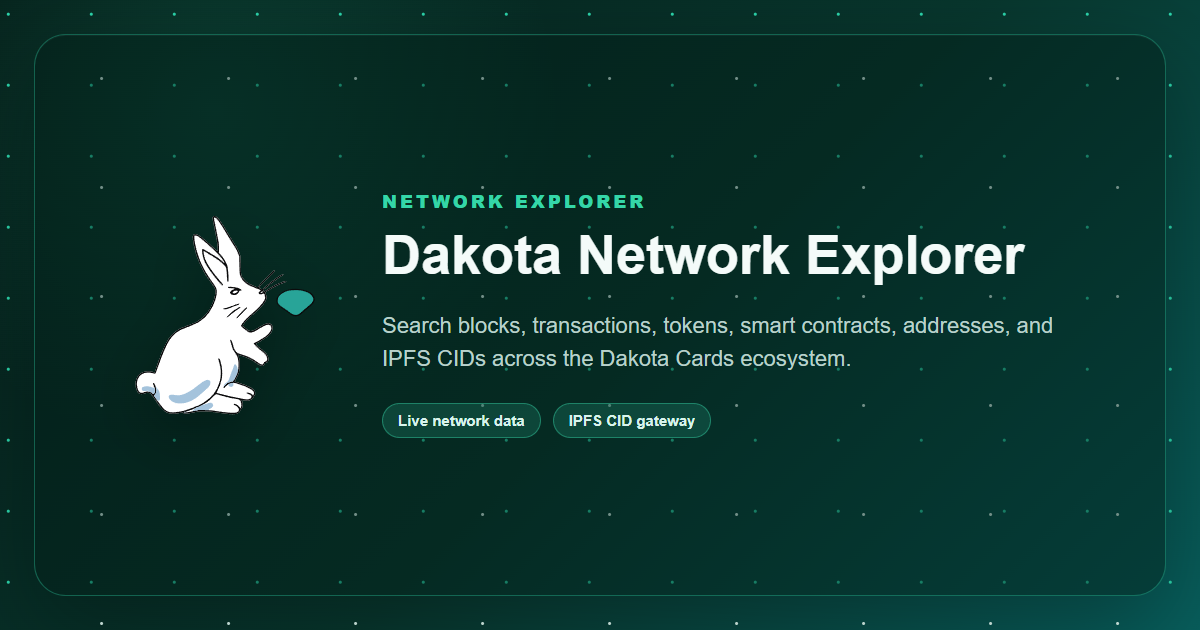
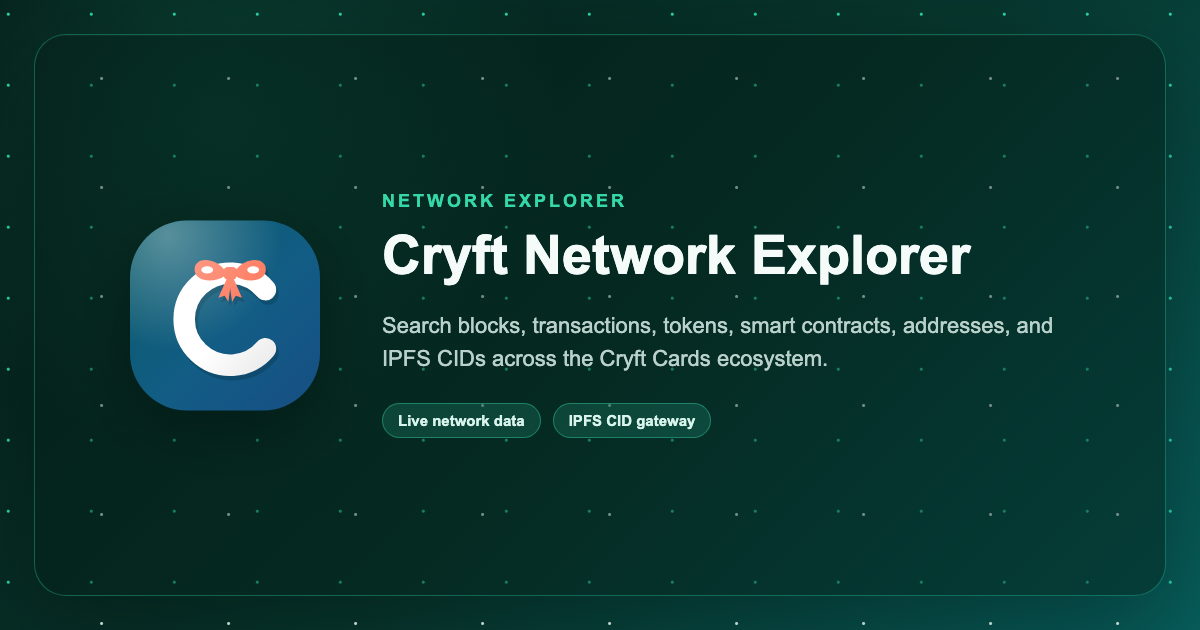
Cryft branding: Cryft Cards explorer, Cryft Network, Cryft Coin (CRYFT)
Chad 2026-11-22: Dakota Cards becomes Cryft Cards; the network is Cryft Network and its coin Cryft Coin, CRYFT
(the app has said so since 10-26). Every visible name, title, meta and structured-data string; the Cryft Cards
mark (cryft-cards-web icon.svg) as logo and favicon; footer ticker from the configured symbol; the dead
dakota.cards dashboard/docs links replaced by cryft.app and cryft.app/how; a new OG image; shared theme cookie
on .cryft.cards as well as .dakota.cards. Internal identifiers and cookie keys keep their names. Network names
themselves come from frontend.env (kit explorer-cryft-20261122).

diff --git a/deploy/scripts/og_image_generator.js b/deploy/scripts/og_image_generator.js
@@ -16,7 +16,7 @@ const appOrigin = [
   appHost,
   appPort && `:${ appPort }`,
 ].filter(Boolean).join('');
-const isDakota = appHost?.endsWith('.dakota.cards') || process.env.NEXT_PUBLIC_APP_INSTANCE?.startsWith('dakota');
+const isDakota = (appHost?.endsWith('.dakota.cards') || appHost?.endsWith('.cryft.cards')) || process.env.NEXT_PUBLIC_APP_INSTANCE?.startsWith('dakota');
 const dakotaImageFile = path.resolve(process.cwd(), 'public/static/dakota_og_image.png');
 const configuredLogo = process.env.NEXT_PUBLIC_NETWORK_LOGO_DARK ?? process.env.NEXT_PUBLIC_NETWORK_LOGO;
 const configuredBanner = process.env.NEXT_PUBLIC_HOMEPAGE_HERO_BANNER_CONFIG;
@@ -37,7 +37,7 @@ function copyPlaceholderImage() {
 if (process.env.NEXT_PUBLIC_OG_IMAGE_URL) {
   console.log('⏩ NEXT_PUBLIC_OG_IMAGE_URL is set. Skipping OG image generation...');
 } else if (isDakota && fs.existsSync(dakotaImageFile)) {
-  console.log('Copying Dakota-branded OG image...');
+  console.log('Copying Cryft-branded OG image...');
   fs.copyFileSync(dakotaImageFile, targetFile);
 } else if (!process.env.NEXT_PUBLIC_NETWORK_NAME) {
   console.log('⏩ NEXT_PUBLIC_NETWORK_NAME is not set. Copying placeholder image...');
@@ -48,10 +48,10 @@ if (process.env.NEXT_PUBLIC_OG_IMAGE_URL) {
 } else {
   try {
     const bannerConfig = JSON.parse(configuredBanner?.replaceAll('\'', '"') || '{}');
-    const dakotaLogoOrigin = appHost === 'localhost' ? 'https://explore.dakota.cards' : appOrigin;
+    const dakotaLogoOrigin = appHost === 'localhost' ? 'https://explore.cryft.cards' : appOrigin;
     const data = {
-      title: bannerConfig.text || (isDakota ? 'Dakota Network Explorer' : `${ process.env.NEXT_PUBLIC_NETWORK_NAME } explorer`),
-      logo_url: getAbsoluteAssetUrl(configuredLogo) || (isDakota ? `${ dakotaLogoOrigin }/assets/dakota/dakota-rabbit-logo.svg` : undefined),
+      title: bannerConfig.text || (isDakota ? 'Cryft Network Explorer' : `${ process.env.NEXT_PUBLIC_NETWORK_NAME } explorer`),
+      logo_url: getAbsoluteAssetUrl(configuredLogo) || (isDakota ? `${ dakotaLogoOrigin }/assets/cryft/cryft-cards-mark.svg` : undefined),
       background: bannerConfig.background?.[0] || (isDakota ? 'linear-gradient(135deg, #06231d 0%, #0a473b 56%, #0d817b 100%)' : undefined),
       title_color: bannerConfig.text_color?.[0] || (isDakota ? '#f2fbf8' : undefined),
       invert_logo: !process.env.NEXT_PUBLIC_NETWORK_LOGO_DARK && !isDakota,

diff --git a/src/features/connect-wallet/components/ThirdwebWalletModal.tsx b/src/features/connect-wallet/components/ThirdwebWalletModal.tsx
@@ -426,7 +426,7 @@ const ThirdwebWalletModal = ({ view, onClose, onConnected }: ModalProps) => {
       const provider = profile.type.charAt(0).toUpperCase() + profile.type.slice(1);
       setIdentityLabel(profile.details.email ? `${ provider } - ${ profile.details.email }` : `${ provider } account`);
     }).catch(() => {
-      isActive && setIdentityLabel('Dakota Cards wallet');
+      isActive && setIdentityLabel('Cryft Cards wallet');
     });
 
     return () => {
@@ -646,7 +646,7 @@ const ThirdwebWalletModal = ({ view, onClose, onConnected }: ModalProps) => {
       case 'walletConnect':
         return 'WalletConnect';
       case 'inApp':
-        return 'Dakota Cards wallet';
+        return 'Cryft Cards wallet';
       default:
         return 'Connected wallet';
     }
@@ -680,7 +680,7 @@ const ThirdwebWalletModal = ({ view, onClose, onConnected }: ModalProps) => {
   const walletOptionsContent = (
     <Stack gap={{ base: 3, md: 5 }} textAlign="center">
       <Text color="text.secondary" fontSize="sm" lineHeight="tall" textAlign="center">
-        Choose how you want to connect to the Dakota Cards Explorer.
+        Choose how you want to connect to the Cryft Cards Explorer.
       </Text>
 
       <SimpleGrid columns={ 2 } gap={{ base: 2, md: 3 }}>
@@ -824,7 +824,7 @@ const ThirdwebWalletModal = ({ view, onClose, onConnected }: ModalProps) => {
       ) }
 
       <Text color="text.secondary" fontSize="xs" textAlign="center">
-        Your wallet session stays secure. The Dakota Cards Explorer never receives your seed phrase or private key.
+        Your wallet session stays secure. The Cryft Cards Explorer never receives your seed phrase or private key.
       </Text>
     </Stack>
   );
@@ -839,7 +839,7 @@ const ThirdwebWalletModal = ({ view, onClose, onConnected }: ModalProps) => {
   const accountContent = displayedAddress ? (
     <Stack gap={ 5 } textAlign="center">
       <Text color="text.secondary" fontSize="sm" textAlign="center">
-        This wallet address is active for Dakota Cards Explorer signatures and contract transactions.
+        This wallet address is active for Cryft Cards Explorer signatures and contract transactions.
       </Text>
 
       <Box

diff --git a/src/shell/footer/Footer.tsx b/src/shell/footer/Footer.tsx
@@ -37,16 +37,12 @@ const FRONT_COMMIT_URL = `https://github.com/blockscout/frontend/commit/${ confi
 
 const DAKOTA_LINKS = [
   {
-    text: 'Dakota Cards',
-    url: 'https://dakota.cards',
+    text: 'Cryft Cards',
+    url: 'https://cryft.app',
   },
   {
-    text: 'Documentation',
-    url: 'https://docs.dakota.cards',
-  },
-  {
-    text: 'Dashboard',
-    url: 'https://dashboard.dakota.cards',
+    text: 'How it works',
+    url: 'https://cryft.app/how',
   },
 ];
 
@@ -68,7 +64,7 @@ const Footer = () => {
     },
     {
       label: 'Ticker',
-      value: 'KOTA',
+      value: config.chain.currency.symbol || 'CRYFT',
     },
   ], []);
 
@@ -139,8 +135,8 @@ const Footer = () => {
           </Link>
         </Flex>
         <Text mt={ 3 } fontSize="xs">
-          Dakota Network Blockchain Explorer helps inspect Dakota Network blocks, transactions,
-          tokens, addresses, smart contracts, and IPFS CIDs across the Dakota Cards ecosystem.
+          Cryft Network Blockchain Explorer helps inspect Cryft Network blocks, transactions,
+          tokens, addresses, smart contracts, and IPFS CIDs across the Cryft Cards ecosystem.
         </Text>
         <VStack mt={ 6 } alignItems="start" textStyle="xs" gap={ 1 }>
           <Flex flexDir={ onionDomain ? 'row' : 'column' } _empty={{ display: 'none' }} columnGap={ 6 } rowGap={ 1 }>
@@ -181,7 +177,7 @@ const Footer = () => {
           loading={ Boolean(isLoading) }
           color="text.primary"
         >
-          Dakota ecosystem
+          Cryft ecosystem
         </Skeleton>
         <VStack gap={ 2 } alignItems="stretch">
           { DAKOTA_LINKS.map(link => <FooterLinkItem { ...link } key={ link.text } isLoading={ isLoading }/>) }

diff --git a/src/shell/metadata/templates/index.ts b/src/shell/metadata/templates/index.ts
@@ -33,16 +33,16 @@ const OG_ROOT_PAGE = {
   image: config.metadata.og.imageUrl,
 };
 
-const DESCRIPTION_DEFAULT = 'Use the Dakota Network Blockchain Explorer to search transactions and IPFS CIDs, verify smart contracts, analyze addresses, and access Dakota Network blockchain data through explorer APIs.';
+const DESCRIPTION_DEFAULT = 'Use the Cryft Network Blockchain Explorer to search transactions and IPFS CIDs, verify smart contracts, analyze addresses, and access Cryft Network blockchain data through explorer APIs.';
 
 export const TEMPLATE_MAP: Record<Route['pathname'], RouteTemplateRecord> = {
   '/': {
     metadata: {
       title: {
-        'default': 'Dakota Cards | Blockchain and Network Explorer',
+        'default': 'Cryft Cards | Blockchain and Network Explorer',
       },
       description: {
-        'default': 'Explore the Dakota Network Blockchain Explorer. Search transactions, addresses, tokens, blocks, smart contracts, and IPFS CIDs across the Dakota Cards ecosystem.',
+        'default': 'Explore the Cryft Network Blockchain Explorer. Search transactions, addresses, tokens, blocks, smart contracts, and IPFS CIDs across the Cryft Cards ecosystem.',
       },
     },
     og: OG_ROOT_PAGE,
@@ -861,7 +861,7 @@ export const TEMPLATE_MAP: Record<Route['pathname'], RouteTemplateRecord> = {
         'default': '%chain_name% ecosystems',
       },
       description: {
-        'default': 'Explore Dakota Cards ecosystem activity and Dakota Network blockchain data.',
+        'default': 'Explore Cryft Cards ecosystem activity and Cryft Network blockchain data.',
       },
     },
     og: OG_ROOT_PAGE,

diff --git a/src/shell/header/Burger.tsx b/src/shell/header/Burger.tsx
@@ -2,7 +2,7 @@
 
 import { chakra } from '@chakra-ui/react';
 import React from 'react';
-import { LuBookOpen, LuChevronDown, LuExternalLink, LuGlobe, LuLayoutDashboard } from 'react-icons/lu';
+import { LuBookOpen, LuChevronDown, LuExternalLink, LuGlobe } from 'react-icons/lu';
 
 import NavigationMobile from 'src/shell/navigation/mobile/NavigationMobile';
 
@@ -23,9 +23,8 @@ interface Props {
 }
 
 const DAKOTA_PLATFORM_LINKS = [
-  { label: 'Dashboard', url: 'https://dashboard.dakota.cards', icon: LuLayoutDashboard },
-  { label: 'Documentation', url: 'https://docs.dakota.cards', icon: LuBookOpen },
-  { label: 'Main Site', url: 'https://dakota.cards', icon: LuGlobe },
+  { label: 'Cryft Cards', url: 'https://cryft.app', icon: LuGlobe },
+  { label: 'How it works', url: 'https://cryft.app/how', icon: LuBookOpen },
 ] as const;
 const DAKOTA_NAVIGATOR_MENU_ID = 'dakota-mobile-navigator-links';
 
@@ -80,11 +79,11 @@ const Burger = ({ isMarketplaceAppPage }: Props) => {
       >
         <DrawerBody display="flex" flexDirection="column" overflowX="hidden" overflowY="auto" px="24px" py="20px">
           <NetworkLogo/>
-          <chakra.nav aria-label="Dakota platform links">
+          <chakra.nav aria-label="Cryft platform links">
             <Button
               aria-controls={ DAKOTA_NAVIGATOR_MENU_ID }
               aria-expanded={ isNavigatorOpen }
-              aria-label="Toggle Dakota platform navigator"
+              aria-label="Toggle Cryft platform navigator"
               onClick={ handleNavigatorToggle }
               h="38px"
               w="100%"

diff --git a/src/server/PageMetadata.tsx b/src/server/PageMetadata.tsx
@@ -34,9 +34,9 @@ const PageMetadata = <Pathname extends Route['pathname']>(props: Props<Pathname>
       <meta property="og:title" content={ opengraph.title }/>
       { opengraph.description && <meta property="og:description" content={ opengraph.description }/> }
       { opengraph.imageUrl && <meta property="og:image" content={ opengraph.imageUrl }/> }
-      { opengraph.imageUrl && <meta property="og:image:alt" content="Dakota Cards Explorer"/> }
+      { opengraph.imageUrl && <meta property="og:image:alt" content="Cryft Cards Explorer"/> }
       { canonical && <meta property="og:url" content={ canonical }/> }
-      <meta property="og:site_name" content="Dakota Cards Explorer"/>
+      <meta property="og:site_name" content="Cryft Cards Explorer"/>
       <meta property="og:type" content="website"/>
 
       { /* Twitter Meta Tags */ }
@@ -45,7 +45,7 @@ const PageMetadata = <Pathname extends Route['pathname']>(props: Props<Pathname>
       <meta name="twitter:title" content={ opengraph.title }/>
       { opengraph.description && <meta name="twitter:description" content={ opengraph.description }/> }
       { opengraph.imageUrl && <meta property="twitter:image" content={ opengraph.imageUrl }/> }
-      { opengraph.imageUrl && <meta name="twitter:image:alt" content="Dakota Cards Explorer"/> }
+      { opengraph.imageUrl && <meta name="twitter:image:alt" content="Cryft Cards Explorer"/> }
       { canonical && <meta name="twitter:url" content={ canonical }/> }
 
       { jsonLdContent && (

diff --git a/src/shell/navigation/horizontal/NavigationDesktop.tsx b/src/shell/navigation/horizontal/NavigationDesktop.tsx
@@ -2,7 +2,7 @@
 
 import { Box, chakra, Flex, Separator } from '@chakra-ui/react';
 import React from 'react';
-import { LuBookOpen, LuChevronDown, LuExternalLink, LuGlobe, LuLayoutDashboard } from 'react-icons/lu';
+import { LuBookOpen, LuChevronDown, LuExternalLink, LuGlobe } from 'react-icons/lu';
 
 import DakotaThemeToggle from 'src/shell/header/DakotaThemeToggle';
 
@@ -33,9 +33,8 @@ const DAKOTA_HEADER_MAX_WIDTH = '1200px';
 const DAKOTA_HEADER_GAP = '10px';
 const DAKOTA_HEADER_SECTION_GAP = '16px';
 const DAKOTA_NAVIGATOR_LINKS = [
-  { label: 'Dashboard', url: 'https://dashboard.dakota.cards', icon: LuLayoutDashboard },
-  { label: 'Documentation', url: 'https://docs.dakota.cards', icon: LuBookOpen },
-  { label: 'Main Site', url: 'https://dakota.cards', icon: LuGlobe },
+  { label: 'Cryft Cards', url: 'https://cryft.app', icon: LuGlobe },
+  { label: 'How it works', url: 'https://cryft.app/how', icon: LuBookOpen },
 ] as const;
 
 const DakotaNavigatorMenu = () => {
@@ -43,7 +42,7 @@ const DakotaNavigatorMenu = () => {
     <PopoverRoot positioning={{ placement: 'bottom', offset: { mainAxis: 8 } }}>
       <PopoverTrigger>
         <Button
-          aria-label="Open Dakota platform navigator"
+          aria-label="Open Cryft platform navigator"
           h={ DAKOTA_HEADER_ACTION_HEIGHT }
           px="14px"
           display="inline-flex"

diff --git a/src/slices/chain/logo/NetworkLogo.tsx b/src/slices/chain/logo/NetworkLogo.tsx
@@ -12,7 +12,7 @@ import { Image } from 'src/toolkit/chakra/image';
 
 import { INVERT_FILTER } from './consts';
 
-const DAKOTA_MARK_SRC = '/assets/dakota/dakota-rabbit-logo.svg';
+const DAKOTA_MARK_SRC = '/assets/cryft/cryft-cards-mark.svg';
 
 const LogoFallback = () => {
   return (
@@ -40,7 +40,7 @@ const NetworkLogo = ({ className }: Props) => {
       <chakra.a
         className={ className }
         href={ route({ pathname: '/' }) }
-        aria-label="Dakota Cards Network Explorer"
+        aria-label="Cryft Cards Network Explorer"
         display="inline-flex"
         alignItems="center"
         gap="10px"
@@ -54,13 +54,13 @@ const NetworkLogo = ({ className }: Props) => {
           w="48px"
           h="48px"
           src={ DAKOTA_MARK_SRC }
-          alt="Dakota Cards Explorer logo mark"
+          alt="Cryft Cards Explorer logo mark"
           fallback={ <LogoFallback/> }
           objectFit="contain"
         />
         <Box minW={ 0 }>
           <Text m={ 0 } fontWeight={ 700 } lineHeight="1.05" fontSize="14px" color="text.primary" whiteSpace="nowrap">
-            Dakota Cards
+            Cryft Cards
           </Text>
           <Text
             m={ 0 }

diff --git a/src/shared/storage/cookies.ts b/src/shared/storage/cookies.ts
@@ -59,8 +59,11 @@ export const getDefaultAttributes = () => ({
   secure: config.app.protocol === 'https',
 });
 
-function shouldUseDakotaCookieDomain(hostname: string): boolean {
-  return hostname === 'dakota.cards' || hostname.endsWith('.dakota.cards');
+const SHARED_COOKIE_DOMAINS = [ 'cryft.cards', 'dakota.cards' ];
+
+function getDakotaCookieDomain(hostname: string): string | undefined {
+  const domain = SHARED_COOKIE_DOMAINS.find((item) => hostname === item || hostname.endsWith(`.${ item }`));
+  return domain ? `.${ domain }` : undefined;
 }
 
 function getDakotaSharedThemeAttributes(): Cookies.CookieAttributes {
@@ -72,7 +75,7 @@ function getDakotaSharedThemeAttributes(): Cookies.CookieAttributes {
     sameSite: 'lax',
     expires: DAKOTA_SHARED_COOKIE_MAX_AGE_DAYS,
     secure,
-    ...(shouldUseDakotaCookieDomain(hostname) ? { domain: '.dakota.cards' } : {}),
+    ...(getDakotaCookieDomain(hostname) ? { domain: getDakotaCookieDomain(hostname) } : {}),
   };
 }
 

diff --git a/src/slices/chain/config.ts b/src/slices/chain/config.ts
@@ -10,7 +10,7 @@ import { getEnvValue, getExternalAssetFilePath, parseEnvJson } from 'src/config/
 import { urlValidator } from 'src/toolkit/components/forms/validators/url';
 
 const DEFAULT_CURRENCY_DECIMALS = 18;
-const DAKOTA_BRAND_ASSET = '/assets/dakota/dakota-rabbit-logo.svg';
+const DAKOTA_BRAND_ASSET = '/assets/cryft/cryft-cards-mark.svg';
 
 const rollupType = getEnvValue('NEXT_PUBLIC_ROLLUP_TYPE') as RollupType;
 
@@ -36,8 +36,8 @@ const rpcUrls = (() => {
 
 const chain = Object.freeze({
   id: getEnvValue('NEXT_PUBLIC_NETWORK_ID'),
-  name: getEnvValue('NEXT_PUBLIC_NETWORK_NAME') || 'Dakota Explorer',
-  shortName: getEnvValue('NEXT_PUBLIC_NETWORK_SHORT_NAME') || 'Dakota',
+  name: getEnvValue('NEXT_PUBLIC_NETWORK_NAME') || 'Cryft Network',
+  shortName: getEnvValue('NEXT_PUBLIC_NETWORK_SHORT_NAME') || 'Cryft',
   currency: {
     name: getEnvValue('NEXT_PUBLIC_NETWORK_CURRENCY_NAME'),
     weiName: getEnvValue('NEXT_PUBLIC_NETWORK_CURRENCY_WEI_NAME'),

diff --git a/src/features/connect-wallet/hooks/wallet/useWalletThirdweb.ts b/src/features/connect-wallet/hooks/wallet/useWalletThirdweb.ts
@@ -64,7 +64,7 @@ export default function useWalletThirdweb({ source, onConnect }: Params): Result
     const chain = wallet.getChain() ?? thirdwebChain;
 
     if (!connector || !account) {
-      throw new Error('The Dakota Cards Explorer wallet connector is unavailable');
+      throw new Error('The Cryft Cards Explorer wallet connector is unavailable');
     }
 
     const hasSameAccount = wagmiAccount.address?.toLowerCase() === account.address.toLowerCase();
@@ -110,7 +110,7 @@ export default function useWalletThirdweb({ source, onConnect }: Params): Result
       if (!isDismissedConnection(error)) {
         toaster.error({
           title: 'Wallet connection failed',
-          description: getErrorMessage(error) || 'Unable to connect your Dakota wallet. Please try again.',
+          description: getErrorMessage(error) || 'Unable to connect your Cryft wallet. Please try again.',
         });
       }
     } finally {

diff --git a/deploy/tools/dakota-og-preview.html b/deploy/tools/dakota-og-preview.html
@@ -31,8 +31,8 @@ color:#d8f4ec;background:rgba(25,116,94,.38);font-size:15px;font-weight:700;line
     <div class=logo>{{LOGO}}</div>
     <div class=copy>
       <div class=eyebrow>Network Explorer</div>
-      <h1>Dakota Network Explorer</h1>
-      <p>Search blocks, transactions, tokens, smart contracts, addresses, and IPFS CIDs across the Dakota Cards ecosystem.</p>
+      <h1>Cryft Network Explorer</h1>
+      <p>Search blocks, transactions, tokens, smart contracts, addresses, and IPFS CIDs across the Cryft Cards ecosystem.</p>
       <div class=pills>
         <span class=pill>Live network data</span>
         <span class=pill>IPFS CID gateway</span>
